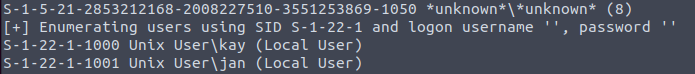
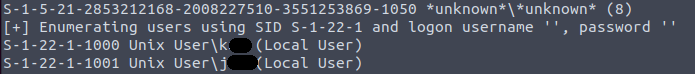
Updated Basic Pentesting

Changed region(s): [[0.3022, 0.5135, 0.3928, 0.9459]]

diff --git a/Rooms/basic_pentesting/README.md b/Rooms/basic_pentesting/README.md
@@ -95,23 +95,70 @@ Well, I kind of got ahead of myself and gave that answer away, but what other op
 
 ## Enumerate the machine to find any vectors for privilege escalation.
 
-After we have connected via SSH, we need to find out how to get further into the machine. To start we can use a tool called `linenum` it can be found here: [LinEnum](https://github.com/rebootuser/LinEnum) When using this on a target, you will either need to copy/paste `LinEnum.sh` into a new `.sh` file, or you will need to use `curl` to download it onto the machine. Using `curl` here didn't seem to want to work, so I went with the copy/paste.
+### scp
 
-### linenum
+After we have connected via SSH, we need to find out how to get further into the machine. To start we can use a tool called `linPEAS` it can be found here: [LinPEAS](https://github.com/carlospolop/PEASS-ng/tree/master/linPEAS) When using this on a target, you will either need to copy/paste `linpeas.sh` into a new `.sh` file, or use `scp` to transfer `linpeas.sh` from our machine, to the target. Using `scp` is the better option in this case, and can be accomplished using `scp $filepath/linpeas.sh j**@$ip/dev/shm`
 
+![scp](images/scp.png)
 
-Run the script using `sh linenum.sh` and scroll through the results, looking for `SUID files` and `Possibly interesting SUID files` In this case, under `Possibly interesting SUID files` There is one that stands out. 
+### linPEAS
 
-![SUID](images/suid.png)
+After the transfer is complete, `cd` into that directory, and run `linpeas.sh` with `sh linpeas.sh`. Allow it to run, and when it completes, begin to examine the output. The beautiful thing about `linpeas.sh` is that it attempts to color-code the output, allowing for quick visual scanning, to see what we can abuse to escelate our priviledge. 
 
-We can now look for ways to escalate our privilege with `vim.basic`
+![linpeas color code](images/linpcolor.png)
 
-### GTFObins
+One thing stood out to me when examining the file. It found SSH keys in `/home/k**/.ssh`!
 
-[GTFObins](https://gtfobins.github.io/) is the one stop shop for escalating privilege. 
+![sshk](images/sshk.png)
+
+Navigating to that directory, we can see that see that there is two interesting files, `id_rsa` and `id_rsa.pub` and that we can read both of them!
+
+![id_rsa](images/id_rsa.png)
+
+Using `cat id_rsa`, we can copy the entire key, and paste it into a new file on our machine named `id_rsak` to connect to the target machine under the user 'k**'. However, before we do that, we need to use `chmod` to change the permissions of `id_rsak`, since the current permitions (644) are 'too open' for the ssh connection to work. We can do that using `chmod 600 id_rsak`
+
+Once we do that, we can ssh into the machine using this key with `ssh -i id_rsak k**@$ip`. But when we do this, we get the following message:
+
+![passphrase](images/passphrase.png)
+
+We now need to figure out the passphrase for the ssh key that we recovered. John the Ripper would be our best option, but we need to generate a hash for John to crack. We can do that with `ssh2john`
+
+### ssh2john
+
+we need to use `ssh2john` to generate a hash that John the Ripper can then crack to give us the passphrase that we need. To do this, we first need to find where `ssh2john.py` is located on our machine. Mine was located at `/usr/share/john/ssh2john.py`. This may vary depending on your distro, but this was the default for ParrotOS.
+
+Now that we have found that, we can run it with in the same directory our `id_rsak` is located in with `python /usr/share/john/ssh2john.py id_rsak > idhash`
+
+![ssh2john](images/ssh2john) 
+
+![idhash](images/idhash)
+
+### john
+
+Now that we have the hash, we can utilize `john` to get our passphrase using `john idhash --wordlist=/usr/share/wordlists/rockyou.txt > passphrase`. I chose to output the results to `passphrase` incase I needed to acces it again at a later time. Once that has run we can see that we have the passphrase `b******`!
+
+![john](images/john.png)
+
+![cracked passphrase](images/cracked.png)
+
+We can finally ssh into the target as k**
 
 ## What is the name of the other user you found(all lower case)?
 
+While I answered this doing the previous section, the answer is `k**`
+
 ## If you have found another user what can you do with this information?
 
+Again, I discovered this during the enumeration section, but we can log in via ssh. The hint also alludes the fact that we can login with out a password using ssh.
+
 ## What is the final password you obtain?
+
+After connecting to the target machine, using k**'s ssh key, and the passphrase we cracked, we now need to find the last password to complete the room. We can see in their home directory that there is a `pass.bak`. Running `cat pass.bak` give us the following:
+
+![pass.bak](images/passbak.png)
+
+We can copy that into the final answer box, to complete the room.
+
+## Conclusion
+
+Thank you for taking the time to read this, and I hope that it helped you in completing this room!
